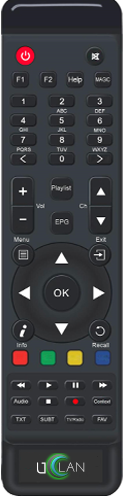
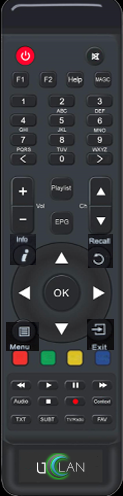
update ustym4kpro rc

diff --git a/BoxBranding/remotes/uclan/remote.html b/BoxBranding/remotes/uclan/remote.html
@@ -13,16 +13,16 @@
 	<area shape="circle" coords="23,158,12" title="previous" onclick="pressMenuRemote('412');">
 	<area shape="circle" coords="62,158,12" title="0" onclick="pressMenuRemote('11');">
 	<area shape="circle" coords="100,158,12" title="next" onclick="pressMenuRemote('407');">
-	<area shape="circle" coords="99,332,10" title="back" onclick="pressMenuRemote('158');">
-	<area shape="circle" coords="22,332,10" title="info" onclick="pressMenuRemote('358');">
-	<area shape="circle" coords="99,254,10" title="exit" onclick="pressMenuRemote('174');">
+	<area shape="circle" coords="99,254,10" title="back" onclick="pressMenuRemote('158');">
+	<area shape="circle" coords="22,254,10" title="info" onclick="pressMenuRemote('358');">
+	<area shape="circle" coords="99,332,10" title="exit" onclick="pressMenuRemote('174');">
 	<area shape="circle" coords="61,223,10" title="epg" onclick="pressMenuRemote('365');">
 	<area shape="circle" coords="61,259,12" title="up" onclick="pressMenuRemote('103');">
 	<area shape="circle" coords="61,327,12" title="down" onclick="pressMenuRemote('108');">
 	<area shape="circle" coords="25,293,12" title="left" onclick="pressMenuRemote('105');">
 	<area shape="circle" coords="97,293,12" title="right" onclick="pressMenuRemote('106');">
 	<area shape="circle" coords="61,293,15" title="OK" onclick="pressMenuRemote('352');">
-	<area shape="circle" coords="22,254,10" title="menu" onclick="pressMenuRemote('139');">
+	<area shape="circle" coords="22,332,10" title="menu" onclick="pressMenuRemote('139');">
 	<area shape="circle" coords="101,401,12" title="portal" onclick="pressMenuRemote('156');">
 	<area shape="circle" coords="61,188,12" title="filelist" onclick="pressMenuRemote('144');">
 	<area shape="circle" coords="23,191,12" title="volume up" onclick="pressMenuRemote('115');">
